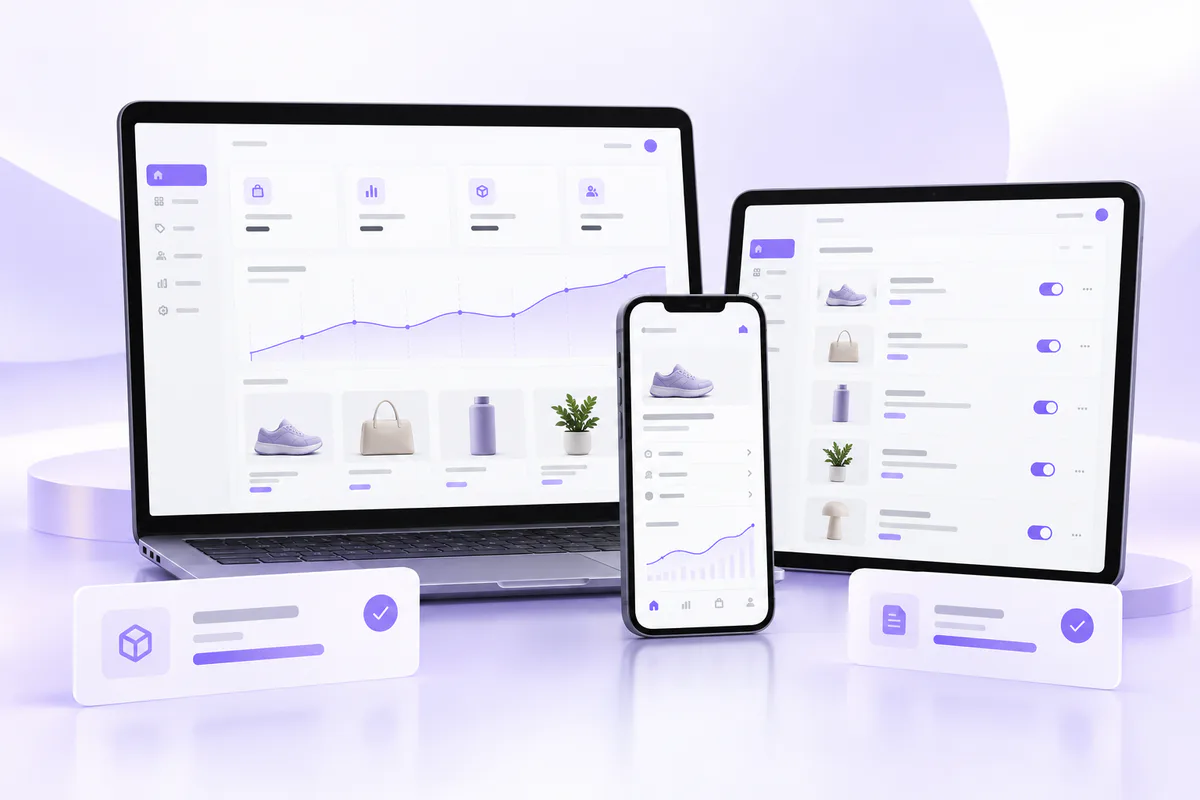
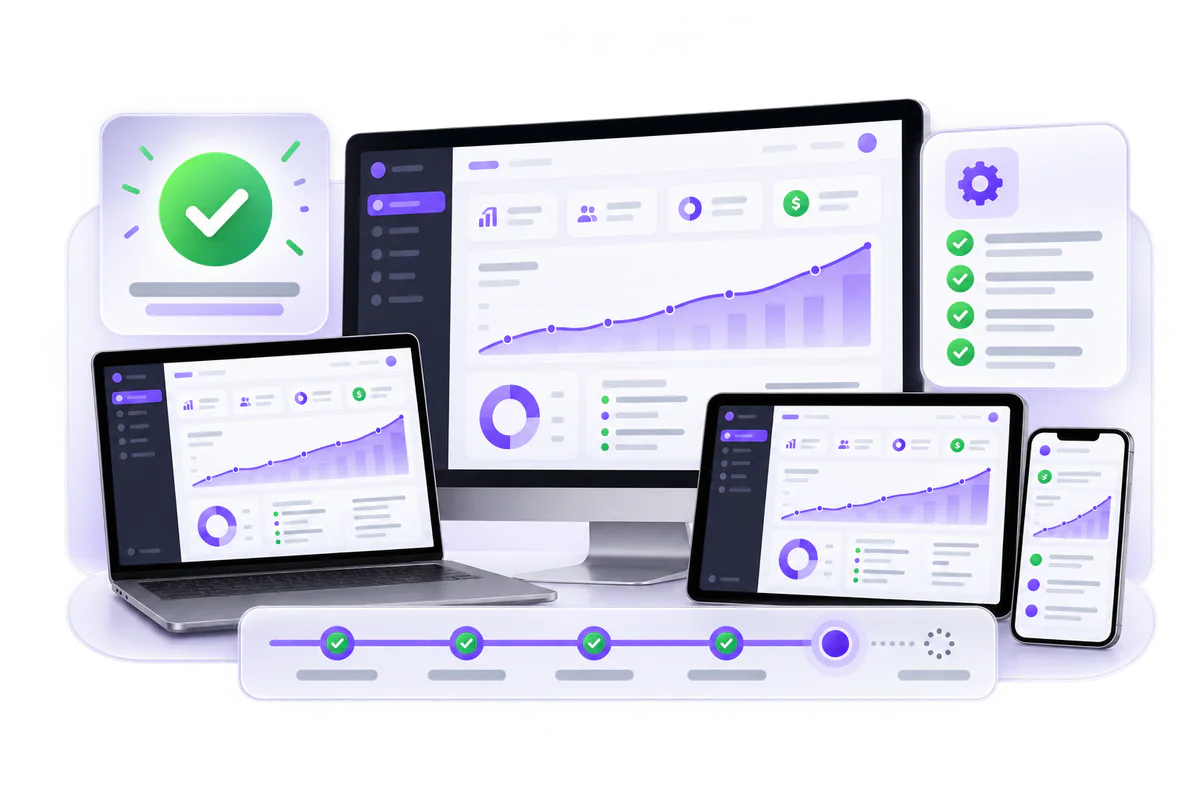
feat(auth): unify signup story gradient

diff --git a/frontend/src/components/auth/AuthPowerPanel.module.css b/frontend/src/components/auth/AuthPowerPanel.module.css
@@ -1,10 +1,13 @@
 .panel {
+  --story-gradient:
+    radial-gradient(circle at 52% 72%, rgba(145, 75, 255, .88), transparent 31%),
+    linear-gradient(180deg, #000004 0%, #05000f 31%, #260064 58%, #793cff 78%, #f4efff 100%);
   position: relative;
   min-height: 100%;
   overflow: clip;
   isolation: isolate;
   color: #f8fafc;
-  background: #070707;
+  background: var(--story-gradient);
 }
 
 .header {
@@ -33,6 +36,7 @@
   opacity: 0;
   visibility: hidden;
   pointer-events: none;
+  background: var(--story-gradient);
   transition: opacity .42s ease, visibility .42s;
 }
 
@@ -55,50 +59,57 @@
 .slide h2 em { color: inherit; font-family: Georgia, 'Times New Roman', serif; font-weight: 400; }
 .slide p { max-width: 495px; color: rgba(255, 255, 255, .65); font-size: 11px; line-height: 1.6; }
 
-.introSlide { justify-content: flex-end; padding: 82px 40px 67px; background: #110b07; }
-.fullBleedArt { z-index: -2; object-fit: cover; object-position: center; }
-.artVeil {
+.introSlide { justify-content: space-between; padding: 100px 40px 69px; }
+.introSlide::before {
+  content: '';
   position: absolute;
-  z-index: -1;
-  inset: 0;
-  background:
-    linear-gradient(90deg, rgba(8, 6, 4, .95) 0%, rgba(8, 6, 4, .76) 42%, rgba(8, 6, 4, .05) 78%),
-    linear-gradient(0deg, rgba(8, 6, 4, .62), transparent 44%);
+  top: 37%;
+  left: 50%;
+  width: min(46vw, 390px);
+  aspect-ratio: 1;
+  transform: translate(-50%, -50%);
+  border: 1px solid rgba(255, 255, 255, .14);
+  border-radius: 50%;
+  background: radial-gradient(circle, rgba(176, 123, 255, .22), rgba(97, 38, 219, .05) 48%, transparent 70%);
+  box-shadow: 0 0 80px rgba(112, 42, 238, .22), inset 0 0 80px rgba(255, 255, 255, .05);
+  pointer-events: none;
 }
-.introCopy { position: relative; max-width: 535px; }
+.introCopy { position: relative; z-index: 2; max-width: 535px; }
 .introCopy h2 { max-width: 520px; font-size: clamp(47px, 5vw, 69px); }
-.introCopy h2 em { color: #f6a45e; }
-.introCopy > p:last-of-type { max-width: 430px; margin: 14px 0 0; color: rgba(255, 255, 255, .76); }
+.introCopy h2 em { color: #c9a8ff; }
+.introFooter { position: relative; z-index: 2; color: #1e1235; }
+.introFooter > p { max-width: 430px; margin: 0; color: rgba(27, 16, 49, .78); font-size: 11px; font-weight: 650; }
 
 .metricsStrip {
   display: flex;
   width: fit-content;
   margin-top: 18px;
   overflow: hidden;
-  border: 1px solid rgba(255, 255, 255, .16);
+  border: 1px solid rgba(30, 18, 53, .12);
   border-radius: 14px;
-  background: rgba(9, 8, 7, .72);
+  background: rgba(255, 255, 255, .76);
+  box-shadow: 0 16px 40px rgba(35, 11, 78, .14);
   backdrop-filter: blur(14px);
 }
 .metricsStrip span { display: grid; min-width: 103px; padding: 11px 14px; }
-.metricsStrip span + span { border-left: 1px solid rgba(255, 255, 255, .13); }
-.metricsStrip strong { color: #fff; font-size: 16px; letter-spacing: -.04em; }
-.metricsStrip small { margin-top: 2px; color: rgba(255, 255, 255, .48); font-size: 7px; font-weight: 750; letter-spacing: .04em; text-transform: uppercase; }
+.metricsStrip span + span { border-left: 1px solid rgba(30, 18, 53, .1); }
+.metricsStrip strong { color: #211137; font-size: 16px; letter-spacing: -.04em; }
+.metricsStrip small { margin-top: 2px; color: rgba(38, 21, 67, .58); font-size: 7px; font-weight: 750; letter-spacing: .04em; text-transform: uppercase; }
 
 .sceneCopy { position: relative; z-index: 3; flex: 0 0 auto; }
 .sceneCopy > p:last-child { margin: 12px 0 0; }
-.buildSlide { background: linear-gradient(145deg, #080b10, #0a111b 62%, #08090c); }
-.buildSlide .sceneCopy em { color: #87bfff; }
-.connectSlide { background: linear-gradient(145deg, #0b090c, #151015 60%, #090909); }
-.connectSlide .sceneCopy em { color: #f0b97e; }
-.growthSlide { background: linear-gradient(145deg, #080a0d, #11141a 60%, #0b0a09); }
-.growthSlide .sceneCopy em { color: #ffc383; }
+.buildSlide,
+.connectSlide,
+.growthSlide { background: var(--story-gradient); }
+.buildSlide .sceneCopy em,
+.connectSlide .sceneCopy em,
+.growthSlide .sceneCopy em { color: #c9a8ff; }
 
 .visualStage {
   position: relative;
   z-index: 2;
   flex: 1 1 auto;
-  min-height: 285px;
+  min-height: 254px;
   margin-top: 20px;
 }
 
@@ -108,7 +119,7 @@
   overflow: hidden;
   margin: 0;
   border: 1px solid rgba(255, 255, 255, .16);
-  background: #eef0f2;
+  background: rgba(248, 246, 255, .96);
   box-shadow: 0 18px 48px rgba(0, 0, 0, .28);
 }
 
@@ -229,16 +240,43 @@
 .visibilityStats b { color: #6b7280; font-size: 6px; letter-spacing: .08em; }
 .visibilityStats strong { font-size: 10px; }
 
+.sceneFooter {
+  position: relative;
+  z-index: 8;
+  display: flex;
+  flex: 0 0 auto;
+  flex-wrap: wrap;
+  gap: 7px;
+  margin-top: 10px;
+  color: #25133f;
+}
+.sceneFooter span {
+  display: inline-flex;
+  min-height: 28px;
+  align-items: center;
+  gap: 6px;
+  border: 1px solid rgba(37, 19, 63, .1);
+  border-radius: 999px;
+  padding: 6px 10px;
+  background: rgba(255, 255, 255, .72);
+  box-shadow: 0 8px 20px rgba(42, 13, 91, .08);
+  font-size: 7px;
+  font-weight: 850;
+  letter-spacing: .02em;
+  backdrop-filter: blur(12px);
+}
+.sceneFooter svg { width: 11px; height: 11px; color: #6d28d9; }
+
 .dots { position: absolute; z-index: 22; bottom: 21px; left: 38px; display: flex; align-items: center; gap: 5px; }
 .dots button { width: 28px; height: 18px; cursor: pointer; border: 0; padding: 0; background: transparent; }
-.dots button span { display: block; width: 100%; height: 2px; border-radius: 99px; background: rgba(255, 255, 255, .25); transition: background .2s, transform .2s; }
-.dots button:hover span { background: rgba(255, 255, 255, .58); }
-.dots .activeDot span { background: #fff; transform: scaleY(1.7); }
+.dots button span { display: block; width: 100%; height: 2px; border-radius: 99px; background: rgba(37, 19, 63, .22); transition: background .2s, transform .2s; }
+.dots button:hover span { background: rgba(74, 33, 131, .58); }
+.dots .activeDot span { background: #4c1d95; transform: scaleY(1.7); }
 
 @media (max-width: 1279px) {
   .panel { min-height: 610px; }
   .slide { padding: 82px 34px 53px; }
-  .introSlide { padding: 82px 35px 65px; }
+  .introSlide { padding: 94px 35px 65px; }
 }
 
 @media (max-width: 700px) {
@@ -246,11 +284,11 @@
   .header { top: 18px; left: 20px; }
   .logo { width: 28px; height: 28px; }
   .slide { padding: 67px 20px 50px; }
-  .introSlide { padding: 67px 21px 61px; }
+  .introSlide { padding: 80px 21px 61px; }
   .slide h2 { font-size: clamp(36px, 10vw, 48px); }
   .introCopy h2 { font-size: clamp(43px, 11.5vw, 56px); }
   .sceneCopy > p:last-child { max-width: 430px; font-size: 10px; }
-  .visualStage { min-height: 315px; margin-top: 16px; }
+  .visualStage { min-height: 286px; margin-top: 16px; }
   .heroArt { border-radius: 18px; }
   .secondaryArt { right: 10px; bottom: 10px; width: 34%; height: 34%; border-radius: 12px; }
   .dataPanel { width: 59%; padding: 10px; }
@@ -262,13 +300,15 @@
   .xrogaHub { left: calc(100% + 12px); width: 40px; height: 40px; border-radius: 12px; }
   .xrogaHub img { width: 26px; height: 26px; }
   .metricsStrip span { min-width: 91px; padding: 9px 11px; }
+  .sceneFooter { margin-top: 8px; gap: 5px; }
+  .sceneFooter span { min-height: 25px; padding: 5px 8px; font-size: 6.5px; }
   .dots { bottom: 18px; left: 20px; }
 }
 
 @media (max-width: 480px) {
   .panel { min-height: 610px; }
   .slide { padding: 65px 16px 47px; }
-  .introSlide { padding: 65px 17px 58px; }
+  .introSlide { padding: 76px 17px 58px; }
   .eyebrow { margin-bottom: 9px; font-size: 7px; }
   .introCopy h2 { font-size: 42px; }
   .sceneCopy h2 { font-size: 35px; }
@@ -277,7 +317,7 @@
   .metricsStrip span { min-width: 0; flex: 1; padding: 9px 8px; }
   .metricsStrip strong { font-size: 14px; }
   .metricsStrip small { font-size: 5.5px; }
-  .visualStage { min-height: 323px; margin-top: 13px; }
+  .visualStage { min-height: 279px; margin-top: 13px; }
   .dataPanel { width: calc(100% - 20px); }
   .secondaryArt { display: none; }
   .appGrid { grid-template-columns: repeat(5, 28px); }
@@ -286,6 +326,7 @@
   .integrationCount { right: 10px; bottom: 10px; left: auto; }
   .kpiRow small { font-size: 5.5px; }
   .visibilityStats b { font-size: 5.5px; }
+  .sceneFooter span { font-size: 6px; }
   .dots button { width: 25px; }
 }
 

diff --git a/frontend/src/components/auth/AuthShowcase.tsx b/frontend/src/components/auth/AuthShowcase.tsx
@@ -130,12 +130,11 @@ export function AuthShowcase() {
       <div className={styles.viewport} aria-live="polite">
         <article className={`${styles.slide} ${styles.introSlide} ${activeSlide === 0 ? styles.active : ''}`}
           aria-hidden={activeSlide !== 0}>
-          <Image src="/brand/auth-stories/idea-to-business-clean.webp" alt="A clean product workspace turning an idea into a digital product"
-            fill priority sizes="(max-width: 1279px) 100vw, 44vw" className={styles.fullBleedArt} />
-          <div className={styles.artVeil} aria-hidden="true" />
           <div className={styles.introCopy}>
             <p className={styles.eyebrow}><Sparkles aria-hidden="true" /> One idea. A complete business.</p>
             <h2>Imagine it.<br /><em>Xroga makes it real.</em></h2>
+          </div>
+          <div className={styles.introFooter}>
             <p>Start with a conversation. Move into research, a working product, testing, launch, and growth.</p>
             <div className={styles.metricsStrip} aria-label="Xroga capability counts">
               <span><strong>1,500+</strong><small>connected apps</small></span>
@@ -148,13 +147,13 @@ export function AuthShowcase() {
         <article className={`${styles.slide} ${styles.buildSlide} ${activeSlide === 1 ? styles.active : ''}`}
           aria-hidden={activeSlide !== 1}>
           <div className={styles.sceneCopy}>
-            <p className={styles.eyebrow}><Rocket aria-hidden="true" /> From idea to every screen</p>
-            <h2>Build once.<br /><em>Launch everywhere.</em></h2>
-            <p>Web, mobile, tablet, desktop, and APIs—built, tested like a real user, repaired, and prepared for release.</p>
+            <p className={styles.eyebrow}><Rocket aria-hidden="true" /> Responsive delivery · lasting progress</p>
+            <h2>Build it once.<br /><em>Succeed everywhere.</em></h2>
+            <p>Every screen stays responsive while Xroga tests, repairs, grows the business, and keeps long-running projects moving.</p>
           </div>
           <div className={styles.visualStage}>
             <figure className={styles.heroArt}>
-              <Image src="/brand/auth-stories/publish-everywhere-clean.webp" alt="One clean product delivered across laptop, tablet, and phone"
+              <Image src="/brand/auth-stories/publish-everywhere-clean.webp" alt="A successful responsive business across desktop, laptop, tablet, and phone with verified repairs, growth, and long-running project progress"
                 fill sizes="(max-width: 1279px) 90vw, 38vw" className={styles.artImage} />
             </figure>
             <section className={`${styles.dataPanel} ${styles.launchPanel}`} aria-label="Example launch readiness">
@@ -169,11 +168,11 @@ export function AuthShowcase() {
                 <span><strong>4</strong><small>targets</small></span>
               </div>
             </section>
-            <figure className={styles.secondaryArt}>
-              <Image src="/brand/auth-stories/ai-testing-clean.webp" alt="A clean quality-assurance scene resolving an issue"
-                fill sizes="(max-width: 700px) 42vw, 17vw" className={styles.artImage} />
-              <figcaption><TestTube2 aria-hidden="true" /> Tested and repaired</figcaption>
-            </figure>
+          </div>
+          <div className={styles.sceneFooter} aria-label="Delivery outcomes">
+            <span><CheckCircle2 aria-hidden="true" /> Success verified</span>
+            <span><TestTube2 aria-hidden="true" /> Repaired and tested</span>
+            <span><TrendingUp aria-hidden="true" /> Long projects keep moving</span>
           </div>
         </article>
 
@@ -201,6 +200,11 @@ export function AuthShowcase() {
                 fill sizes="(max-width: 700px) 42vw, 17vw" className={styles.artImage} />
               <figcaption><Globe2 aria-hidden="true" /> Research <Plane aria-hidden="true" /> Travel</figcaption>
             </figure>
+          </div>
+          <div className={styles.sceneFooter} aria-label="Connected work outcomes">
+            <span><PlugZap aria-hidden="true" /> 1,500+ apps</span>
+            <span><Search aria-hidden="true" /> Research with sources</span>
+            <span><Plane aria-hidden="true" /> Plans ready for approval</span>
           </div>
         </article>
 
@@ -232,6 +236,11 @@ export function AuthShowcase() {
               <Image src="/brand/auth-stories/seo-aeo-geo-clean.webp" alt="Clean search, answer, and geographic discovery objects"
                 fill sizes="(max-width: 700px) 42vw, 17vw" className={styles.artImage} />
             </figure>
+          </div>
+          <div className={styles.sceneFooter} aria-label="Growth outcomes">
+            <span><Bot aria-hidden="true" /> Specialized AI employees</span>
+            <span><TrendingUp aria-hidden="true" /> Business growth</span>
+            <span><Globe2 aria-hidden="true" /> SEO · AEO · GEO</span>
           </div>
         </article>
       </div>

diff --git a/frontend/src/components/auth/authSignupLayout.test.ts b/frontend/src/components/auth/authSignupLayout.test.ts
@@ -29,7 +29,10 @@ test('the signup story rotates through four focused Xroga capability scenes', ()
 
   for (const phrase of [
     'Imagine it',
-    'Launch everywhere',
+    'Succeed everywhere',
+    'Success verified',
+    'Repaired and tested',
+    'Long projects keep moving',
     '1,500+ apps',
     'Research',
     'Your AI team',
@@ -41,11 +44,9 @@ test('the signup story rotates through four focused Xroga capability scenes', ()
   }
 });
 
-test('the story uses seven optimized clean images plus twenty real integration marks', () => {
+test('the story uses five optimized image cards plus twenty real integration marks', () => {
   for (const image of [
-    'idea-to-business-clean.webp',
     'publish-everywhere-clean.webp',
-    'ai-testing-clean.webp',
     'connected-work-clean.webp',
     'research-travel-clean.webp',
     'xroga-employees-clean.webp',
@@ -56,6 +57,9 @@ test('the story uses seven optimized clean images plus twenty real integration m
     assert.ok(existsSync(imageUrl), `${image} does not exist in public assets`);
     assert.ok(statSync(imageUrl).size < 200_000, `${image} was not optimized for signup delivery`);
   }
+
+  assert.doesNotMatch(showcase, /idea-to-business-clean\.webp/, 'the first slide must stay image-free');
+  assert.doesNotMatch(showcase, /ai-testing-clean\.webp/, 'the responsive success image now owns repair and testing');
 
   for (const mark of [
     'siGmail', 'siGooglecalendar', 'siGoogledrive', 'siGithub', 'siGitlab',
@@ -83,6 +87,14 @@ test('the panel renders graphs, counts, and percentages without animating imager
   assert.match(styles, /\.trendChart/);
   assert.doesNotMatch(styles, /@keyframes|animation\s*:/);
   assert.doesNotMatch(styles, /\.artImage[^}]*transition|\.artImage[^}]*transform/s);
+});
+
+test('every slide shares the black-to-violet gradient and keeps text above and below its image card', () => {
+  assert.match(styles, /--story-gradient:/);
+  assert.match(styles, /linear-gradient\(180deg, #000004 0%, #05000f 31%, #260064 58%, #793cff 78%, #f4efff 100%\)/);
+  assert.match(styles, /\.buildSlide,\s*\n\.connectSlide,\s*\n\.growthSlide \{ background: var\(--story-gradient\); \}/);
+  assert.match(showcase, /styles\.introFooter/);
+  assert.equal((showcase.match(/styles\.sceneFooter/g) ?? []).length, 3);
 });
 
 test('the capability panel stays usable on phones and respects reduced motion', () => {
